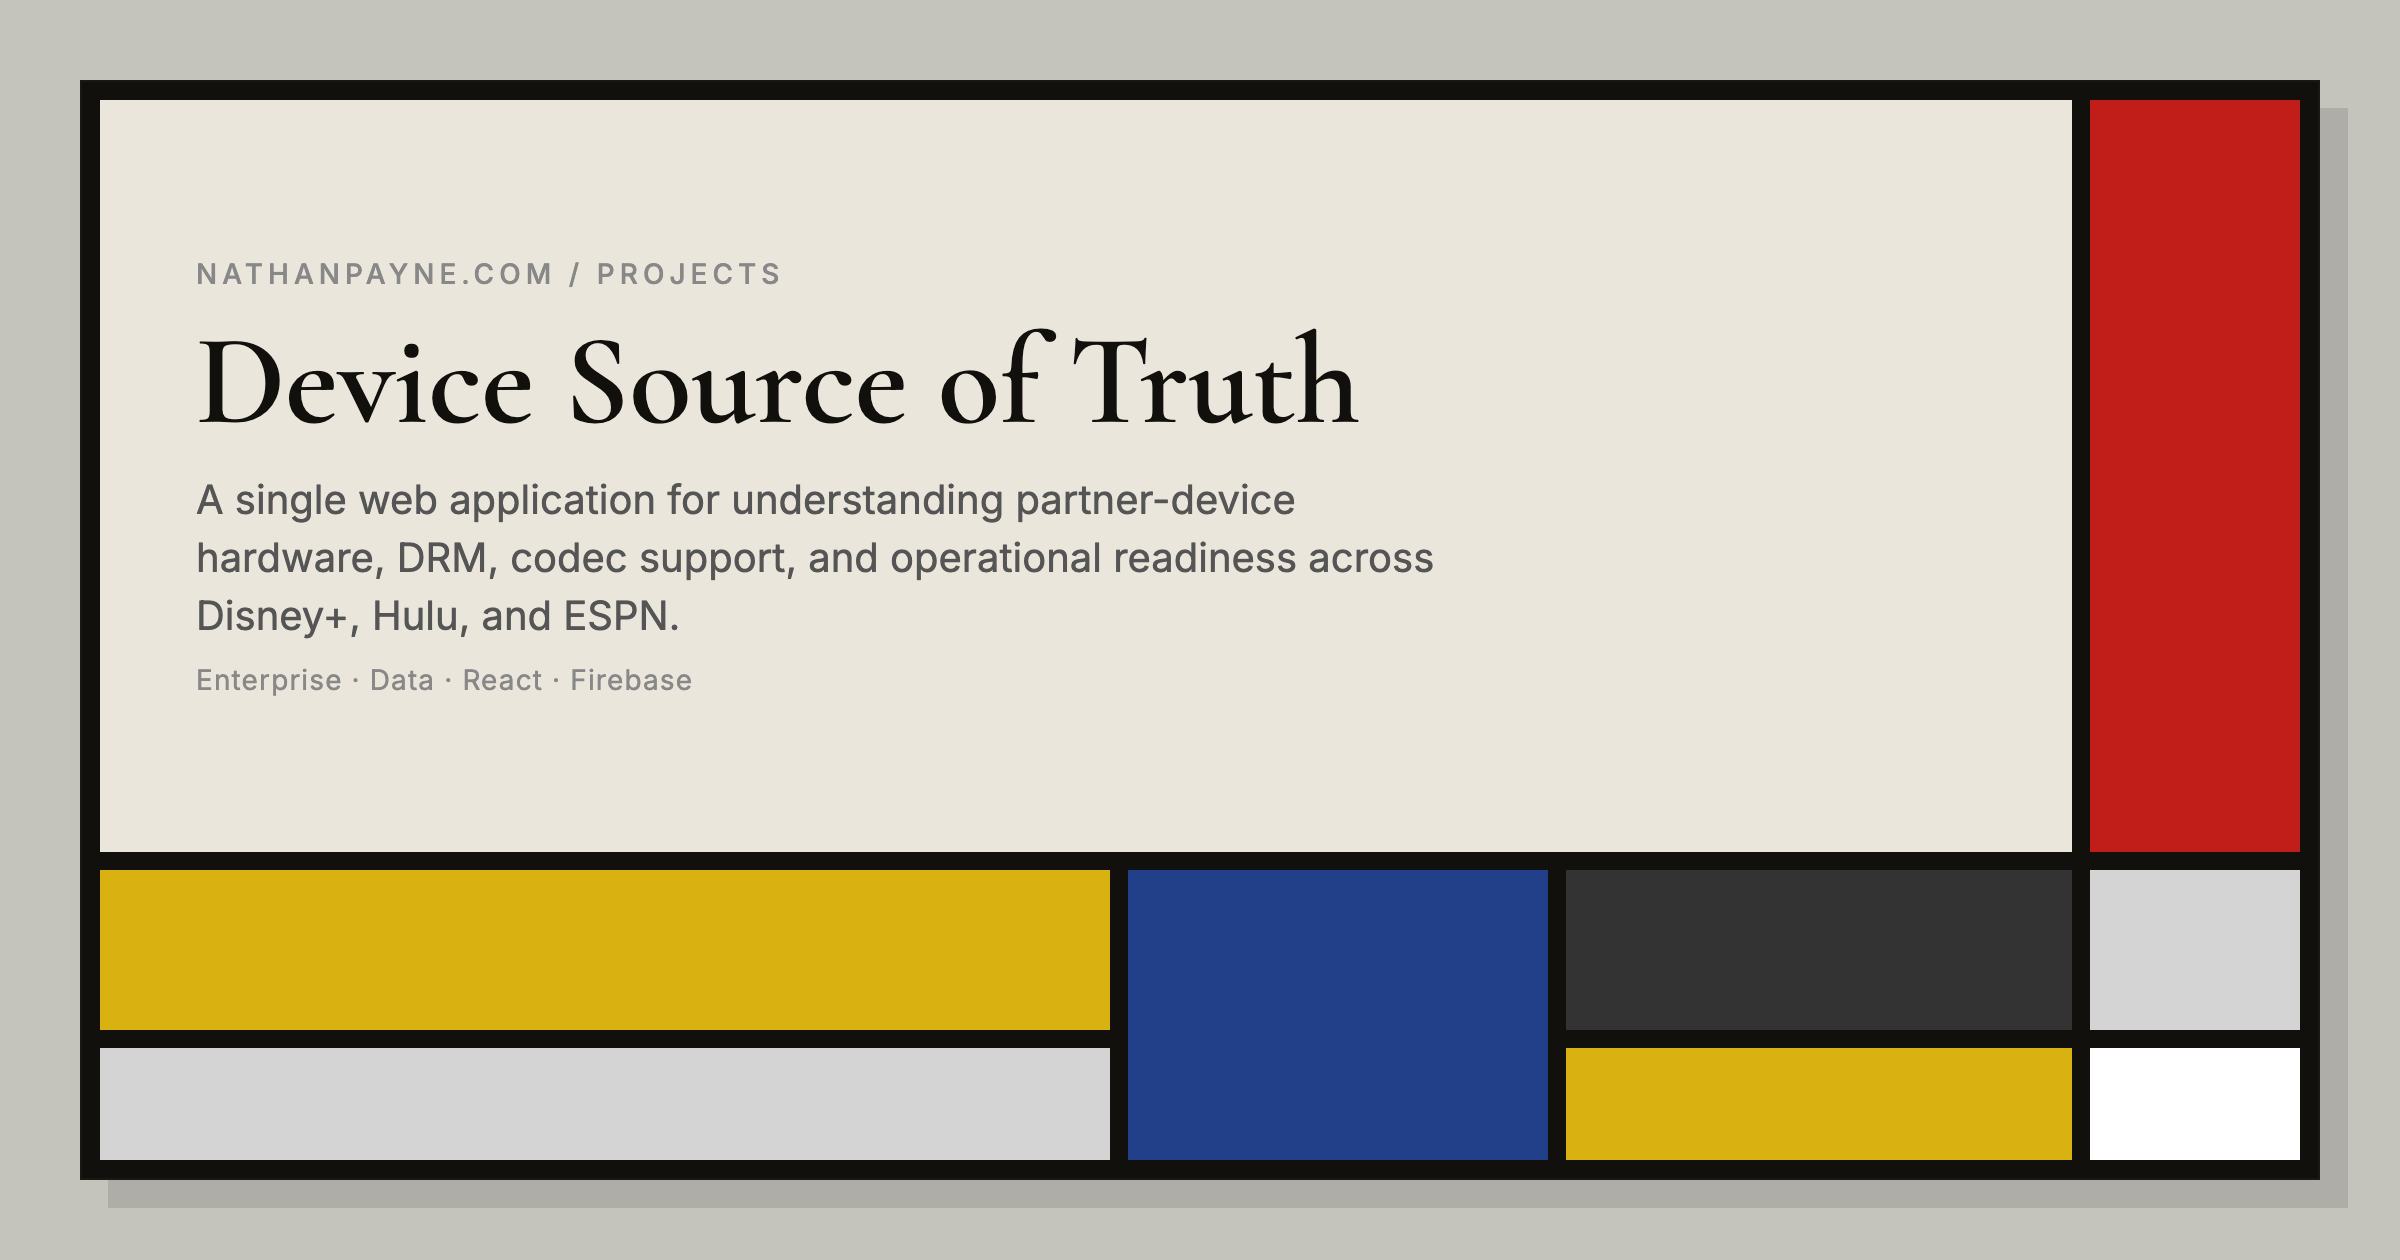
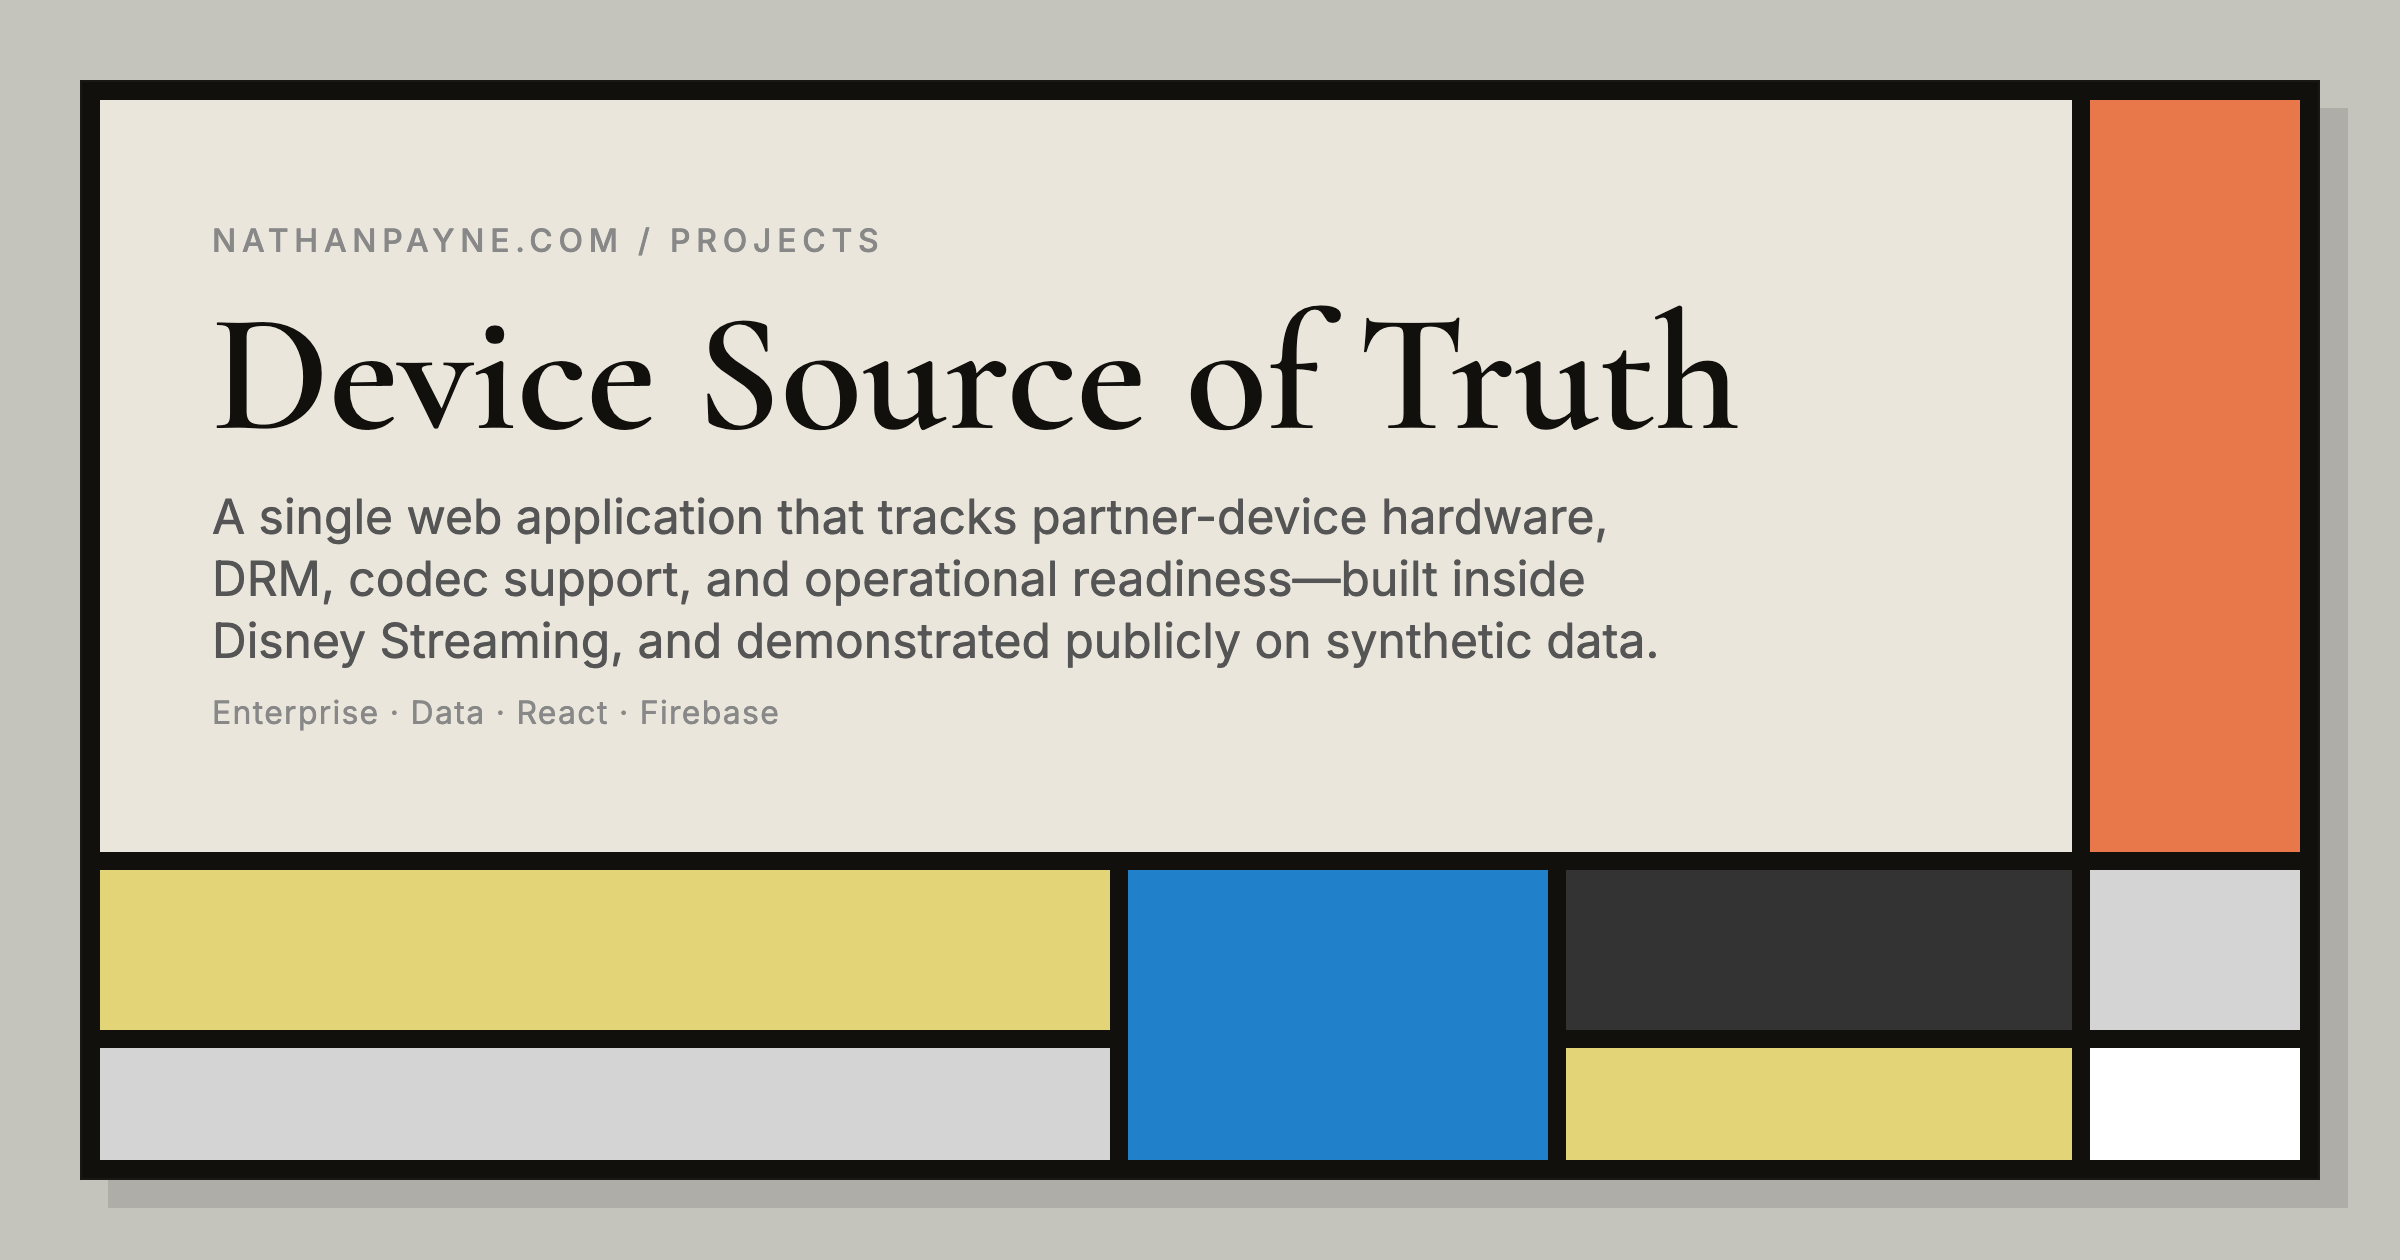
content(755): scope the summary's \b residue, and regenerate the stale OG reference
Codex round 4. Both correct.

The summary footnote still glossed A27 as "`git grep -E` silently ignores
`\b`" with no qualifier - reintroducing, four lines from the totals, the
platform-wide claim the row itself retracts. Third time on this PR that I
fixed the cited line and left a sibling surface saying the old thing. The
footnote now says it silently ignored `\b` on this audit's machine and
points at the row.

The checked-in OG reference still rendered "operational readiness across
Disney+, Hulu, and ESPN", the copy this branch removed from the template.
Regenerated from the build and read back: it now carries "built inside
Disney Streaming, and demonstrated publicly on synthetic data".

Scope note, because the audit turned up more than the finding. Every
reference in screenshots/og/ differs byte-wise from its build, so bytes are
not a staleness signal - PNG encoding varies per run. What is real is
older: the set was captured 2026-04-11, `override` and `swipe-watch` have
had template changes since, and `five-across`, `matchline` and `mergepath`
have no reference at all. That is pre-existing drift across the directory
rather than anything this branch caused, and regenerating seven binaries
inside a content PR is the batching the runbook forbids. Filed separately.

Unsigned; the 1Password agent refuses git's non-interactive signing.

diff --git a/plans/759/project-pages-ledger.md b/plans/759/project-pages-ledger.md
@@ -3235,7 +3235,7 @@ Reproduce with `git rev-list --count "$(git rev-list -1 --before=2026-04-14 orig
 | §H cross-page | 3 | 5 | 0 | 2 | 0 | 10 |
 | **Total** | **118** | **60** | **11** | **57** | **4** | **253** † |
 
-† **The `Rows` column counts rows; §A's verdict columns do not sum to it.** §A holds **50 rows of which 47 carry a verdict**: `A27` is a method finding (`git grep -E` silently ignores `\b`), `A44` is the cross-surface sweep, and `A48` is the decision-record adjudication AC 5 needs. None records a verdict, and forcing one on them would be worse than the gap. So §A reads 26+10+4+6+1 = **47 verdicts across 50 rows**, and the corpus is **250 verdicts across 253 rows**. Every other section sums exactly. An earlier revision of this footnote said 49 rows against 46 verdicts, which was true before `A49` and `A50` were added and stale the moment they were—caught independently by both reviewers on `#873`. A tally corrected in one place goes stale the next time the thing it counts changes; recount from the file.
+† **The `Rows` column counts rows; §A's verdict columns do not sum to it.** §A holds **50 rows of which 47 carry a verdict**: `A27` is a method finding (on this audit's machine, `git grep -E` silently ignored `\b`—a platform-dependent trap, see the row), `A44` is the cross-surface sweep, and `A48` is the decision-record adjudication AC 5 needs. None records a verdict, and forcing one on them would be worse than the gap. So §A reads 26+10+4+6+1 = **47 verdicts across 50 rows**, and the corpus is **250 verdicts across 253 rows**. Every other section sums exactly. An earlier revision of this footnote said 49 rows against 46 verdicts, which was true before `A49` and `A50` were added and stale the moment they were—caught independently by both reviewers on `#873`. A tally corrected in one place goes stale the next time the thing it counts changes; recount from the file.
 
 A **SPLIT** row is counted once, in its own column, not split across the other three; the row text names which half carries which verdict. WRONG rows count each restated instance separately, because each is a separate edit: §E10 and §E11 are one number stated twice, §G1–G3 are one number stated three times, and §H1–H2 re-count the Override and two-strike defects at the cross-page level where the fix has to be coordinated across files. Deduplicated to distinct underlying facts, the WRONG count is 37; §C51's household-framing correction is the new fact added after the earlier count of 36.
 
